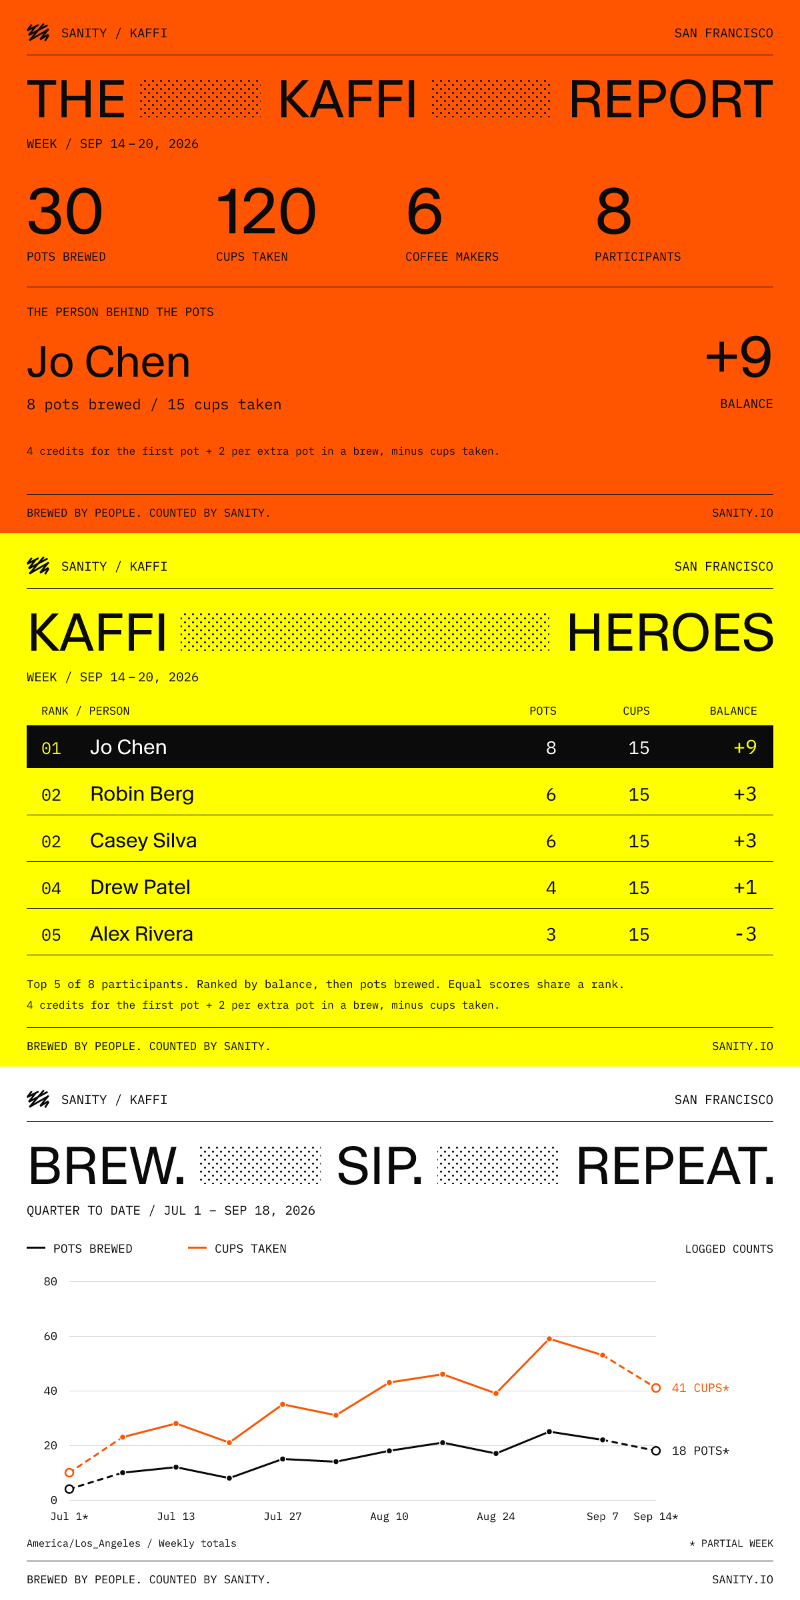
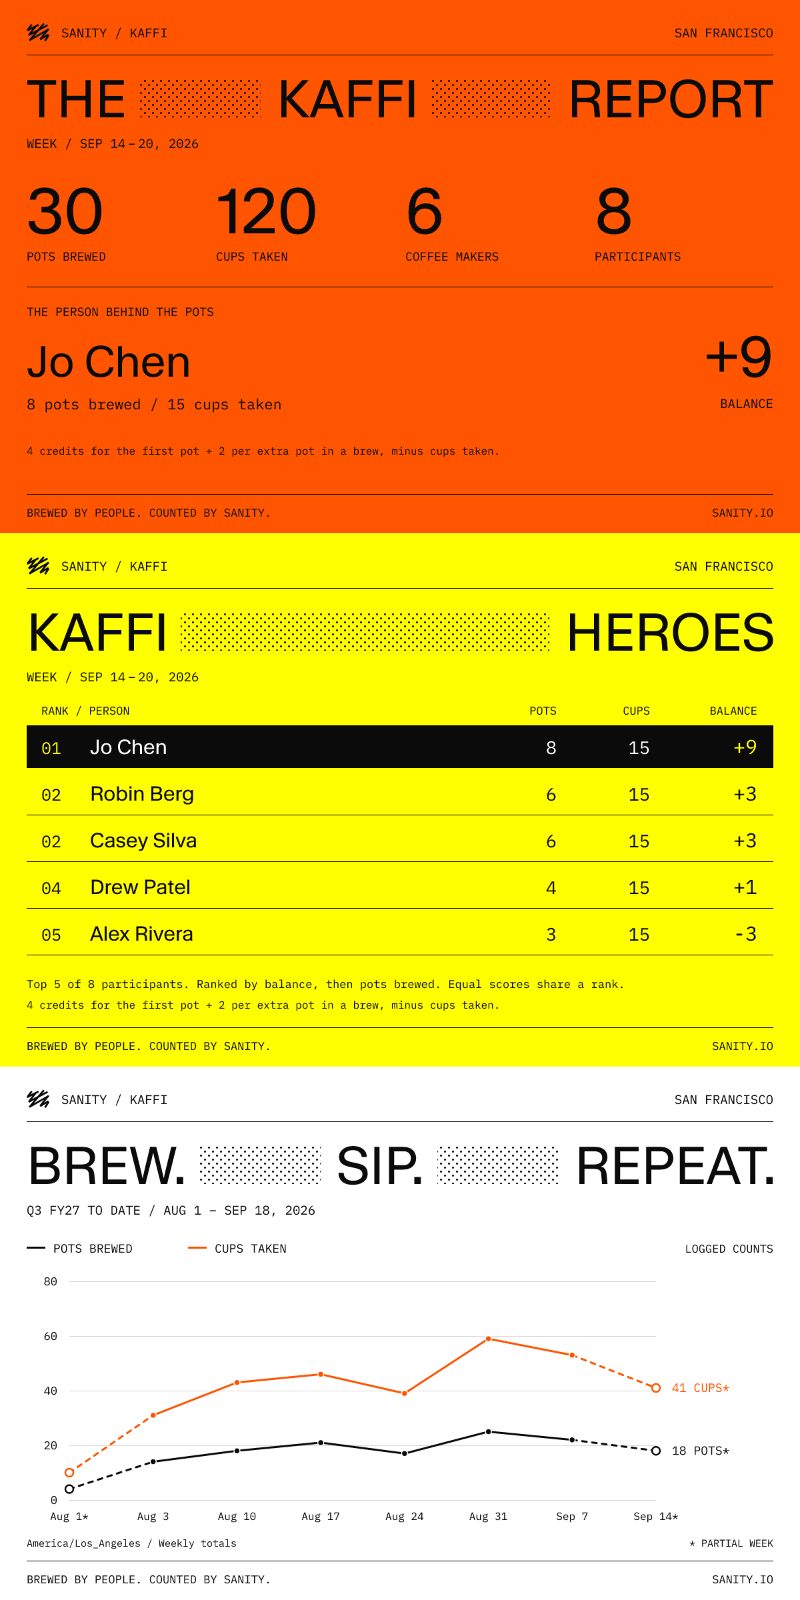
fix: align Kaffi reports with the fiscal calendar

diff --git a/apps/kaffi/reports/coffee-images.test.ts b/apps/kaffi/reports/coffee-images.test.ts
@@ -80,8 +80,8 @@ test("office-local periods preserve brew-action credits, names, and empty days",
 test("calendar buckets cover leap months, quarters, year rollover, and DST", () => {
   for (const [period, date, from, to, count] of [
     ["month", "2024-02-20", "2024-02-01", "2024-03-01", 21],
-    ["quarter", "2026-11-16", "2026-10-01", "2027-01-01", 14],
-    ["year", "2026-12-31", "2026-01-01", "2027-01-01", 12],
+    ["quarter", "2026-11-16", "2026-11-01", "2027-02-01", 14],
+    ["year", "2026-12-31", "2026-02-01", "2027-02-01", 12],
   ] as const) {
     const report = buildCoffeeReport([], { ...options, period, date });
     expect([report.from, report.to, report.buckets.length]).toEqual([
@@ -110,6 +110,53 @@ test("calendar buckets cover leap months, quarters, year rollover, and DST", () 
   expect(friday.pots).toBe(2);
 });
 
+test("fiscal labels and bounds roll over in February, including January's previous-year quarter", () => {
+  for (const [period, date, from, to, periodLabel] of [
+    ["quarter", "2026-01-31", "2025-11-01", "2026-02-01", "Q4 FY26"],
+    ["quarter", "2026-02-01", "2026-02-01", "2026-05-01", "Q1 FY27"],
+    ["quarter", "2026-05-01", "2026-05-01", "2026-08-01", "Q2 FY27"],
+    ["quarter", "2026-09-18", "2026-08-01", "2026-11-01", "Q3 FY27"],
+    ["quarter", "2027-01-31", "2026-11-01", "2027-02-01", "Q4 FY27"],
+    ["year", "2026-01-31", "2025-02-01", "2026-02-01", "FY26"],
+    ["year", "2026-02-01", "2026-02-01", "2027-02-01", "FY27"],
+    ["year", "2027-01-31", "2026-02-01", "2027-02-01", "FY27"],
+    ["year", "2027-02-01", "2027-02-01", "2028-02-01", "FY28"],
+  ] as const) {
+    expect(buildCoffeeReport([], { ...options, period, date })).toMatchObject({
+      from,
+      to,
+      periodLabel,
+      toDate: false,
+    });
+  }
+  const year = buildCoffeeReport(
+    [
+      event({ occurredAt: "2026-02-01T07:59:59Z", quantity: 100 }),
+      event({ occurredAt: "2026-02-01T08:00:00Z" }),
+      event({ occurredAt: "2027-02-01T07:59:59Z", quantity: 2 }),
+      event({ occurredAt: "2027-02-01T08:00:00Z", quantity: 100 }),
+    ],
+    { ...options, period: "year" },
+  );
+  expect(year.pots).toBe(3);
+  expect(year.buckets.map(({ label }) => label)).toEqual([
+    "Feb",
+    "Mar",
+    "Apr",
+    "May",
+    "Jun",
+    "Jul",
+    "Aug",
+    "Sep",
+    "Oct",
+    "Nov",
+    "Dec",
+    "Jan",
+  ]);
+  expect(year.buckets[0].pots).toBe(1);
+  expect(year.buckets[11].pots).toBe(2);
+});
+
 test("quarter-to-date totals clip to the quarter and cutoff, retaining weekends in weekly buckets", () => {
   const quarter = {
     ...options,
@@ -118,8 +165,8 @@ test("quarter-to-date totals clip to the quarter and cutoff, retaining weekends 
   } satisfies ReportOptions;
   const report = buildCoffeeReport(
     [
-      event({ occurredAt: "2026-07-01T06:59:59Z", quantity: 100 }),
-      event({ occurredAt: "2026-07-01T07:00:00Z" }),
+      event({ occurredAt: "2026-08-01T06:59:59Z", quantity: 100 }),
+      event({ occurredAt: "2026-08-01T07:00:00Z" }),
       event({ occurredAt: "2026-09-13T16:00:00Z", kind: "cup", quantity: 2 }),
       event({ quantity: 2 }),
       event({ occurredAt: "2026-09-18T16:00:00Z", kind: "cup", quantity: 3 }),
@@ -133,31 +180,32 @@ test("quarter-to-date totals clip to the quarter and cutoff, retaining weekends 
     report.toDate,
     report.pots,
     report.cups,
-  ]).toEqual(["2026-07-01", "2026-09-19", true, 3, 5]);
-  expect(report.buckets).toHaveLength(12);
+  ]).toEqual(["2026-08-01", "2026-09-19", true, 3, 5]);
+  expect(report.buckets).toHaveLength(8);
+  expect(report.periodLabel).toBe("Q3 FY27");
   expect(report.buckets[0]).toEqual({
-    label: "Jul 1",
+    label: "Aug 1",
     pots: 1,
     cups: 0,
     partial: true,
   });
-  expect(report.buckets[10]).toEqual({
+  expect(report.buckets[6]).toEqual({
     label: "Sep 7",
     pots: 0,
     cups: 2,
     partial: false,
   });
-  expect(report.buckets[11]).toEqual({
+  expect(report.buckets[7]).toEqual({
     label: "Sep 14",
     pots: 2,
     cups: 3,
     partial: true,
   });
   expect(() =>
-    buildCoffeeReport([], { ...quarter, through: "2026-10-01" }),
+    buildCoffeeReport([], { ...quarter, through: "2026-11-01" }),
   ).toThrow("within the report period");
   expect(() =>
-    buildCoffeeReport([], { ...quarter, through: "2026-06-30" }),
+    buildCoffeeReport([], { ...quarter, through: "2026-07-31" }),
   ).toThrow("within the report period");
   expect(renderCoffeeTrend(report).readUInt32BE(16)).toBe(1200);
 });

diff --git a/apps/kaffi/reports/report-data.ts b/apps/kaffi/reports/report-data.ts
@@ -2,6 +2,7 @@ import { aggregate, officeOf, type EventRow } from "../lib/coffee-stats.ts";
 
 export type CoffeeEvent = EventRow & { occurredAt: string };
 export type ReportOptions = {
+  /** Quarters and years follow Sanity's February–January fiscal calendar. */
   period: "week" | "month" | "quarter" | "year";
   /** Any office-local calendar date in the desired period (YYYY-MM-DD). */
   date: string;
@@ -36,13 +37,24 @@ function monday(date: Date) {
 
 function periodBounds(options: ReportOptions) {
   const start = calendarDate(options.date);
+  const fiscalMonth = (start.getUTCMonth() + 11) % 12;
+  const fiscalYear =
+    start.getUTCFullYear() + (start.getUTCMonth() === 0 ? 0 : 1);
+  const fiscalLabel = `FY${String(fiscalYear).slice(-2)}`;
+  const periodLabel =
+    options.period === "quarter"
+      ? `Q${Math.floor(fiscalMonth / 3) + 1} ${fiscalLabel}`
+      : options.period === "year"
+        ? fiscalLabel
+        : options.period.toUpperCase();
   if (options.period === "week")
     start.setUTCDate(start.getUTCDate() - ((start.getUTCDay() + 6) % 7));
   else {
     start.setUTCDate(1);
     if (options.period === "quarter")
-      start.setUTCMonth(Math.floor(start.getUTCMonth() / 3) * 3);
-    if (options.period === "year") start.setUTCMonth(0);
+      start.setUTCMonth(start.getUTCMonth() - (fiscalMonth % 3));
+    if (options.period === "year")
+      start.setUTCMonth(start.getUTCMonth() - fiscalMonth);
   }
   const end = new Date(start);
   if (options.period === "week") end.setUTCDate(end.getUTCDate() + 7);
@@ -58,7 +70,7 @@ function periodBounds(options: ReportOptions) {
     end.setTime(through.getTime());
     end.setUTCDate(end.getUTCDate() + 1);
   }
-  return { start, end, toDate: end < periodEnd };
+  return { start, end, periodLabel, toDate: end < periodEnd };
 }
 
 export function buildCoffeeReport(
@@ -72,7 +84,7 @@ export function buildCoffeeReport(
     month: "2-digit",
     day: "2-digit",
   });
-  const { start, end, toDate } = periodBounds(options);
+  const { start, end, periodLabel, toDate } = periodBounds(options);
   const from = dateKey(start);
   const to = dateKey(end);
   const monthly = options.period === "year";
@@ -150,6 +162,7 @@ export function buildCoffeeReport(
   });
   return {
     period: options.period,
+    periodLabel,
     toDate,
     office: options.office,
     timeZone: options.timeZone,

diff --git a/apps/kaffi/reports/coffee-images.ts b/apps/kaffi/reports/coffee-images.ts
@@ -144,7 +144,7 @@ function frame(
     ${text(report.office.toUpperCase(), 1160, 56, 19, { mono: true, align: "end", width: 560 })}
     ${rule(82)}
     ${headline(title)}
-    ${text(`${report.period.toUpperCase()}${report.toDate ? " TO DATE" : ""} / ${report.dateLabel.toUpperCase()}`, 40, 222, 19, { mono: true })}
+    ${text(`${report.periodLabel}${report.toDate ? " TO DATE" : ""} / ${report.dateLabel.toUpperCase()}`, 40, 222, 19, { mono: true })}
     ${content}
     ${rule(741)}
     ${text("BREWED BY PEOPLE. COUNTED BY SANITY.", 40, 775, 17, { mono: true })}

diff --git a/apps/kaffi/README.md b/apps/kaffi/README.md
@@ -192,7 +192,13 @@ queries produce incomplete totals. For an ongoing period, supply `through` to om
 future buckets and label the period "TO DATE". No previous-period comparison is
 inferred from missing data.
 
-Weeks run Monday through Sunday. `from` is inclusive and `to` exclusive; both
+Weeks run Monday through Sunday. Fiscal years run February through January and
+use the ending year: FY27 is February 1, 2026 through January 31, 2027.
+Quarters start in February, May, August, and November, so September 2026 is
+Q3 FY27. Quarter/year report bounds, buckets, and image labels follow this calendar;
+week/month reports use calendar weeks/months.
+
+`from` is inclusive and `to` exclusive; both
 are office-local calendar dates, not UTC query timestamps. Event timestamps must
 include an offset or `Z`. Office names match exactly; unstamped events belong to
 Oslo. Invalid timestamps and non-positive/non-integer quantities throw. Directory
